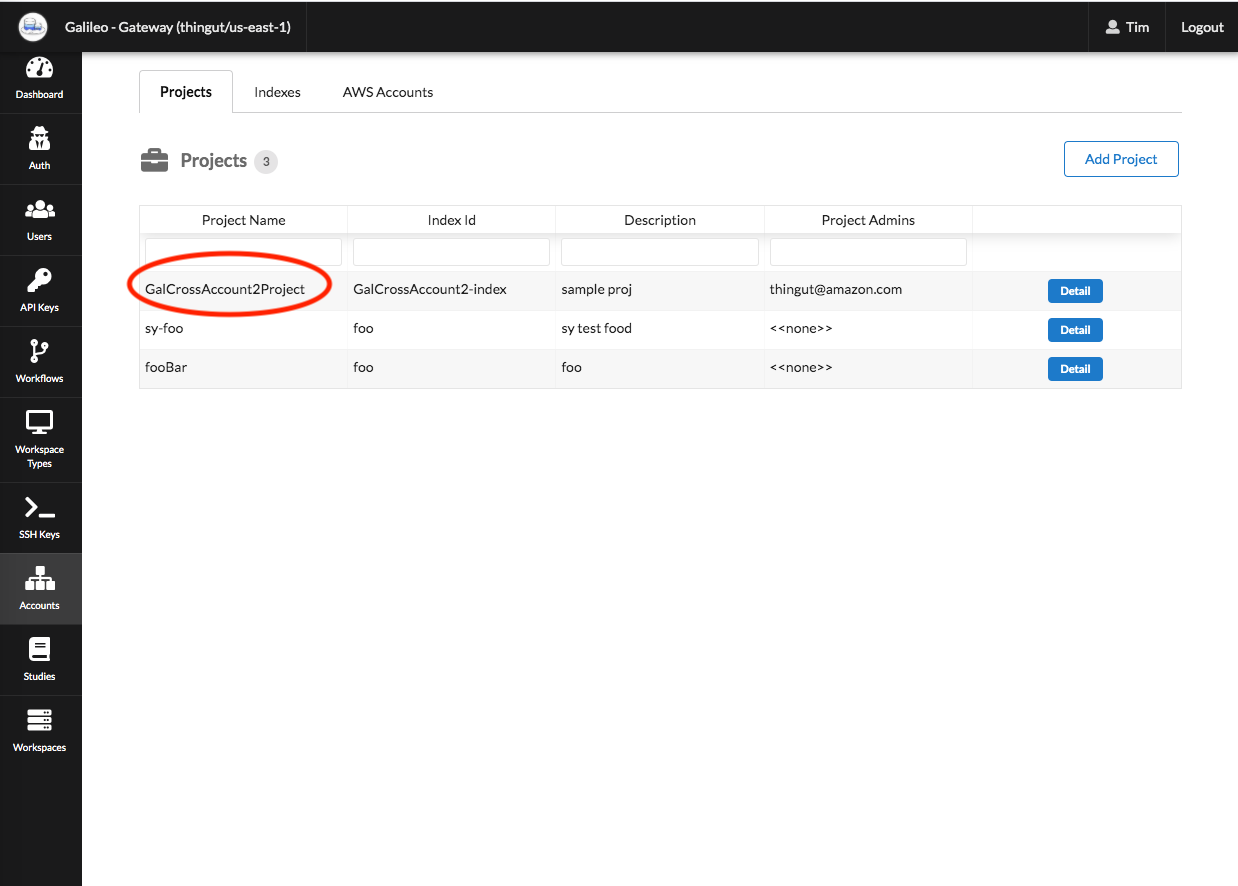
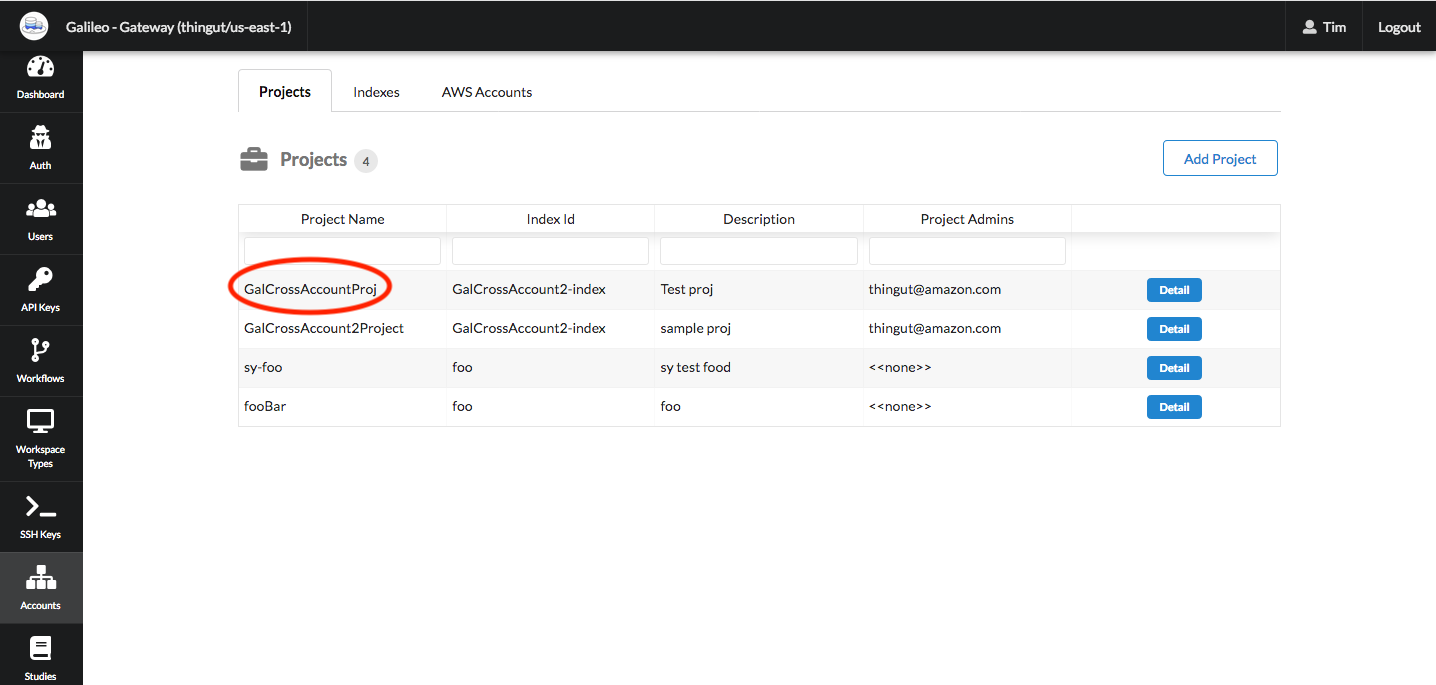
Added cypress.local.example.json

diff --git a/main/end-to-end-tests/README.md b/main/end-to-end-tests/README.md
@@ -14,17 +14,18 @@ To run the E2E tests, you will need the following items:
 * A configured EC2 workspace
 * A configured Sagemaker workspace
 
-Once you've confirmed that you have the items above setup, you can create a `cypress.dev.json` and a `cypress.local.json` file with the configurations needed for your tests. You can use `cypress.json` as a template for your new configuration files.
+Once you've confirmed that you have the items above setup, you can create a `cypress.dev.json` and a `cypress.local.json` file with the configurations needed for your tests. You can use `cypress.json` as a template for your new configuration files. An example file is included as `cypress.local.example.json`
 
 The **baseUrl** for `cypress.local.json` should be `http://localhost:3000` while the **baseUrl** for `cypress.dev.json` should be the cloudfront url for your Galileo instance. Something like `https://abcd1234.cloudfront.net`
 
 Example of what the other variable values could be is shown below.
 
 ![projects](./instruction-assets/projects.png)
-**projectId**: GalCrossAccount2Project
+**projectId**: GalCrossAccountProject
 
 ![workspaces](./instruction-assets/workspaces.png)
 **sagemaker-workspaceTypeName:** sagemaker-notebook-instances
+
 **ec2-workspaceTypeName:** ec2-linux-instance
 
 ![workspace-configuration](./instruction-assets/workspace-configuration.png) 
